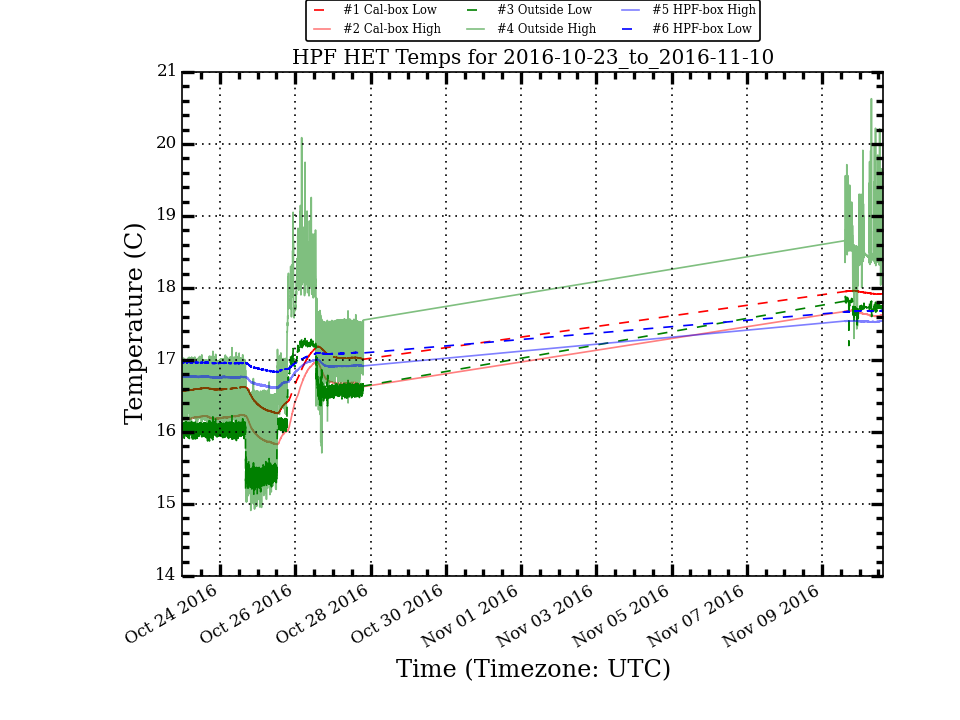
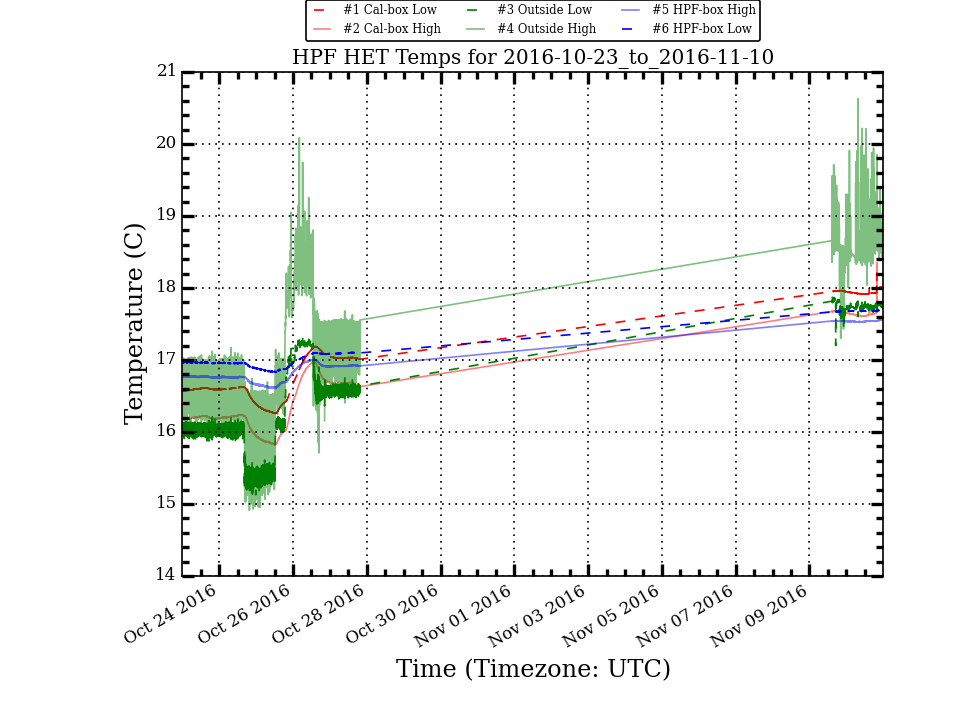
Update HPF Temp Plots

diff --git a/research/hpf_temps/plots/LakeShoreLogTotal_month_stats.html b/research/hpf_temps/plots/LakeShoreLogTotal_month_stats.html
@@ -10,56 +10,56 @@
  </TR>
  <TR>
   <TD>Cal_Low</TD>
-  <TD>16.706</TD>
-  <TD>0.277</TD>
-  <TD>16.633</TD>
-  <TD>18.020</TD>
+  <TD>16.722</TD>
+  <TD>0.310</TD>
+  <TD>16.635</TD>
+  <TD>18.205</TD>
   <TD>16.258</TD>
-  <TD>1.762</TD>
+  <TD>1.947</TD>
  </TR>
  <TR>
   <TD>Cal_High</TD>
-  <TD>16.314</TD>
-  <TD>0.307</TD>
-  <TD>16.233</TD>
-  <TD>17.773</TD>
+  <TD>16.332</TD>
+  <TD>0.344</TD>
+  <TD>16.235</TD>
+  <TD>18.353</TD>
   <TD>15.827</TD>
-  <TD>1.946</TD>
+  <TD>2.526</TD>
  </TR>
  <TR>
   <TD>Out_Low</TD>
-  <TD>16.176</TD>
-  <TD>0.438</TD>
-  <TD>16.096</TD>
+  <TD>16.196</TD>
+  <TD>0.470</TD>
+  <TD>16.099</TD>
   <TD>17.883</TD>
   <TD>14.006</TD>
   <TD>3.877</TD>
  </TR>
  <TR>
   <TD>Out_High</TD>
-  <TD>16.967</TD>
-  <TD>0.585</TD>
-  <TD>17.014</TD>
+  <TD>16.990</TD>
+  <TD>0.616</TD>
+  <TD>17.018</TD>
   <TD>20.629</TD>
   <TD>14.470</TD>
   <TD>6.159</TD>
  </TR>
  <TR>
   <TD>HPF_High</TD>
-  <TD>16.897</TD>
-  <TD>0.148</TD>
-  <TD>16.891</TD>
-  <TD>17.547</TD>
+  <TD>16.905</TD>
+  <TD>0.164</TD>
+  <TD>16.893</TD>
+  <TD>17.560</TD>
   <TD>16.605</TD>
-  <TD>0.942</TD>
+  <TD>0.955</TD>
  </TR>
  <TR>
   <TD>HPF_Low</TD>
-  <TD>17.085</TD>
-  <TD>0.136</TD>
-  <TD>17.087</TD>
-  <TD>17.688</TD>
+  <TD>17.093</TD>
+  <TD>0.151</TD>
+  <TD>17.088</TD>
+  <TD>17.699</TD>
   <TD>16.829</TD>
-  <TD>0.859</TD>
+  <TD>0.870</TD>
  </TR>
 </TABLE>

diff --git a/research/hpf_temps/plots/LakeShoreLogTotal_week_stats.html b/research/hpf_temps/plots/LakeShoreLogTotal_week_stats.html
@@ -10,56 +10,56 @@
  </TR>
  <TR>
   <TD>Cal_Low</TD>
-  <TD>16.921</TD>
-  <TD>0.532</TD>
-  <TD>16.623</TD>
-  <TD>18.020</TD>
+  <TD>16.985</TD>
+  <TD>0.573</TD>
+  <TD>16.788</TD>
+  <TD>18.205</TD>
   <TD>16.258</TD>
-  <TD>1.762</TD>
+  <TD>1.947</TD>
  </TR>
  <TR>
   <TD>Cal_High</TD>
-  <TD>16.572</TD>
-  <TD>0.580</TD>
-  <TD>16.252</TD>
-  <TD>17.773</TD>
+  <TD>16.641</TD>
+  <TD>0.625</TD>
+  <TD>16.568</TD>
+  <TD>18.353</TD>
   <TD>15.827</TD>
-  <TD>1.946</TD>
+  <TD>2.526</TD>
  </TR>
  <TR>
   <TD>Out_Low</TD>
-  <TD>16.511</TD>
-  <TD>0.752</TD>
-  <TD>16.507</TD>
+  <TD>16.586</TD>
+  <TD>0.786</TD>
+  <TD>16.538</TD>
   <TD>17.883</TD>
   <TD>15.128</TD>
   <TD>2.755</TD>
  </TR>
  <TR>
   <TD>Out_High</TD>
-  <TD>17.281</TD>
-  <TD>0.897</TD>
-  <TD>17.015</TD>
+  <TD>17.370</TD>
+  <TD>0.941</TD>
+  <TD>17.135</TD>
   <TD>20.629</TD>
   <TD>14.911</TD>
   <TD>5.718</TD>
  </TR>
  <TR>
   <TD>HPF_High</TD>
-  <TD>16.932</TD>
-  <TD>0.297</TD>
-  <TD>16.775</TD>
-  <TD>17.547</TD>
+  <TD>16.969</TD>
+  <TD>0.323</TD>
+  <TD>16.883</TD>
+  <TD>17.560</TD>
   <TD>16.605</TD>
-  <TD>0.942</TD>
+  <TD>0.955</TD>
  </TR>
  <TR>
   <TD>HPF_Low</TD>
-  <TD>17.103</TD>
-  <TD>0.276</TD>
-  <TD>16.968</TD>
-  <TD>17.688</TD>
+  <TD>17.139</TD>
+  <TD>0.302</TD>
+  <TD>16.989</TD>
+  <TD>17.699</TD>
   <TD>16.829</TD>
-  <TD>0.859</TD>
+  <TD>0.870</TD>
  </TR>
 </TABLE>
